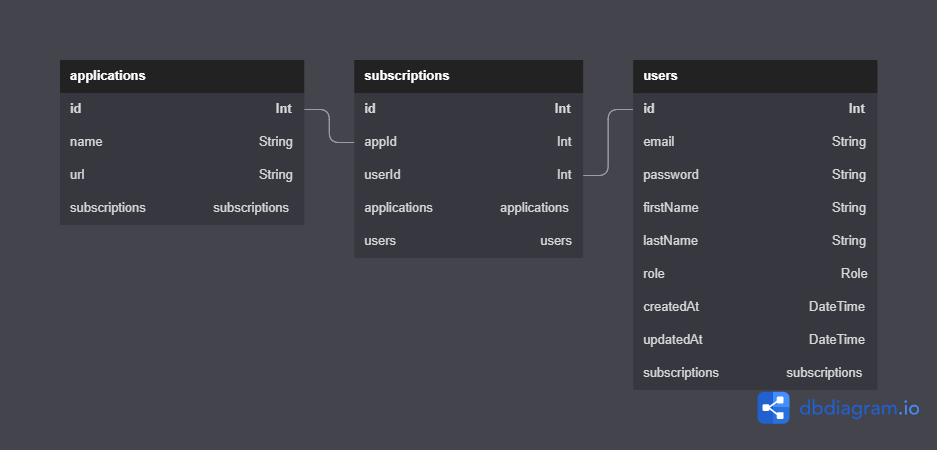
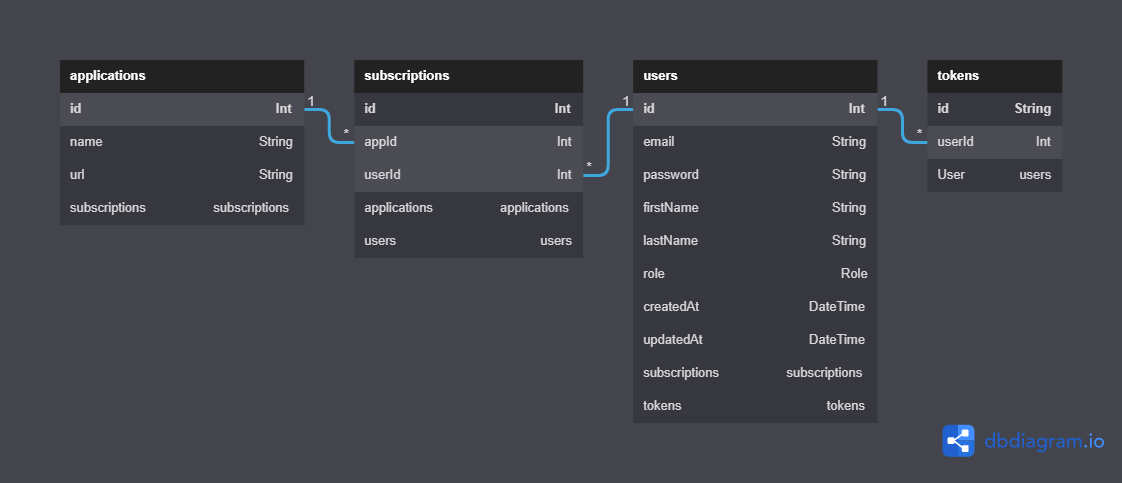
feat: logout route
adding array of allowed Tokens for each user

diff --git a/src/auth/auth.service.ts b/src/auth/auth.service.ts
@@ -8,16 +8,21 @@ import {
 import { compare, hash } from 'bcrypt';
 import { JwtService } from '@nestjs/jwt';
 import { UsersService } from 'src/users/users.service';
-import { Role } from '@prisma/client';
+import { Role, Token } from '@prisma/client';
 import { TokenWrapEntity } from './entities/token-wrap.entity';
 import { TokenContentEntity } from './entities/token-content.entity';
-import { UserNotAuthEntity } from 'src/users/entities/user-auth.entity';
+import {
+  UserNotAuthEntity,
+  UserOneAuthEntity,
+} from 'src/users/entities/user-auth.entity';
 import { ConfigService } from '@nestjs/config';
+import { PrismaService } from 'nestjs-prisma';
 
 // purposes : retrieving an user and verifying the password
 @Injectable()
 export class AuthService {
   constructor(
+    private readonly prisma: PrismaService,
     private readonly configService: ConfigService,
     private readonly userService: UsersService,
     private readonly jwtService: JwtService,
@@ -38,10 +43,13 @@ export class AuthService {
       throw new UnauthorizedException('Invalid password');
     }
 
+    const tokenUuid = (await this.saveToken(user.id))?.id;
+
     //we choose a property name of sub to hold our userId value to be consistent with JWT standards
     const accessTokenContent: TokenContentEntity = {
       sub: user.id,
       role: user.role,
+      tokenUuid,
     };
     const accessToken = this.jwtService.sign(accessTokenContent);
 
@@ -78,16 +86,30 @@ export class AuthService {
     return result;
   }
 
-  async validateUser(id: number, role: Role): Promise<UserNotAuthEntity> {
+  async validateUser(
+    id: number,
+    role: Role,
+    tokenUuid: string,
+  ): Promise<UserOneAuthEntity> {
     const user = await this.userService.getById(id);
     if (user.role !== role) {
       throw new UnauthorizedException(
         `User with id : ${user.id} used a token with an outdated role, it was : ${role} instead of ${user.role}.`,
       );
     }
+
+    const token: Token = await this.prisma.token.findUnique({
+      where: { id: tokenUuid },
+    });
+    if (token == null || token.userId !== id) {
+      throw new UnauthorizedException(
+        `User with id : ${user.id} used an outdated token .`,
+      );
+    }
+
     // eslint-disable-next-line @typescript-eslint/no-unused-vars
     const { password, ...result } = user;
-    return result;
+    return { ...result, tokenUuid };
   }
 
   checkPassword(pwd: string): boolean {
@@ -100,6 +122,56 @@ export class AuthService {
     }
     // TODO activate when in prod
     // return isStrong;
+    return true;
+  }
+
+  async logout(user: UserOneAuthEntity, tokenUuid?: string): Promise<boolean> {
+    if (
+      user.role !== Role.ADMIN ||
+      (user.role === Role.ADMIN && tokenUuid == undefined)
+    ) {
+      return this.banToken(user.tokenUuid);
+    }
+    if (user.role === Role.ADMIN && tokenUuid !== undefined) {
+      return this.banToken(tokenUuid);
+    }
+    return false;
+  }
+
+  /**
+   * Saving the token in a whitelist allowing its checking in the future even if its expiration is not overdue
+   * @param userId
+   * @returns
+   */
+  async saveToken(userId: number): Promise<Token> {
+    let token: Token;
+    try {
+      token = await this.prisma.token.create({ data: { userId: userId } });
+    } catch (error) {
+      this.logger.error(error);
+    }
+    return token;
+  }
+
+  /**
+   * Remove the token from the whitelist even if its expiration is not overdue
+   * @param tokenUuid
+   * @returns
+   */
+  async banToken(tokenUuid: string): Promise<boolean> {
+    let token: Token;
+    try {
+      token = await this.prisma.token.delete({
+        where: {
+          id: tokenUuid,
+        },
+      });
+    } catch (error) {
+      this.logger.error(error);
+    }
+    this.logger.log(
+      `The following token has just expired: ${token.id}, it matched with the following user id : ${token.userId}.`,
+    );
     return true;
   }
 }

diff --git a/src/auth/jwt.strategy.ts b/src/auth/jwt.strategy.ts
@@ -2,7 +2,7 @@ import { Injectable, UnauthorizedException } from '@nestjs/common';
 import { ConfigService } from '@nestjs/config';
 import { PassportStrategy } from '@nestjs/passport';
 import { ExtractJwt, Strategy } from 'passport-jwt';
-import { UserNotAuthEntity } from 'src/users/entities/user-auth.entity';
+import { UserOneAuthEntity } from 'src/users/entities/user-auth.entity';
 import { AuthService } from './auth.service';
 import { TokenContentEntity } from './entities/token-content.entity';
 
@@ -35,14 +35,15 @@ export class JwtStrategy extends PassportStrategy(Strategy, 'my-jwt') {
    * @param payload
    * @returns a full user if the validation succeeds, or a null if it fails
    */
-  async validate(payload: TokenContentEntity): Promise<UserNotAuthEntity> {
-    const user: UserNotAuthEntity = await this.authService.validateUser(
+  async validate(payload: TokenContentEntity): Promise<UserOneAuthEntity> {
+    const user = await this.authService.validateUser(
       payload.sub,
       payload.role,
+      payload.tokenUuid,
     );
     if (!user) {
       throw new UnauthorizedException();
     }
-    return user;
+    return { ...user, tokenUuid: payload.tokenUuid };
   }
 }

diff --git a/src/auth/auth.controller.ts b/src/auth/auth.controller.ts
@@ -1,9 +1,14 @@
 import { CreateAuthDto } from './dto/create-auth.dto';
-import { Body, Controller, Post } from '@nestjs/common';
+import { Body, Controller, Post, UseGuards } from '@nestjs/common';
 import { AuthService } from './auth.service';
-import { ApiTags } from '@nestjs/swagger';
+import { ApiBearerAuth, ApiTags } from '@nestjs/swagger';
 import { TokenWrapEntity } from './entities/token-wrap.entity';
-import { UserNotAuthEntity } from 'src/users/entities/user-auth.entity';
+import {
+  UserNotAuthEntity,
+  UserOneAuthEntity,
+} from 'src/users/entities/user-auth.entity';
+import { MyJwtAuthGuard } from 'src/auth/jwt.guard';
+import { AuthUser } from 'src/auth/decorators/auth-user.decorator';
 
 @Controller('auth')
 @ApiTags('auth')
@@ -13,6 +18,13 @@ export class AuthController {
   @Post('login')
   login(@Body() { email, password }: CreateAuthDto): Promise<TokenWrapEntity> {
     return this.authService.login(email, password);
+  }
+
+  @Post('logout')
+  @UseGuards(MyJwtAuthGuard)
+  @ApiBearerAuth()
+  async logout(@AuthUser() user: UserOneAuthEntity): Promise<boolean> {
+    return await this.authService.logout(user);
   }
 
   @Post('register')

diff --git a/src/auth/auth.module.ts b/src/auth/auth.module.ts
@@ -6,6 +6,7 @@ import { JwtModule } from '@nestjs/jwt';
 import { JwtStrategy } from './jwt.strategy';
 import { UsersService } from 'src/users/users.service';
 import { ConfigService } from '@nestjs/config';
+import { PrismaService } from 'nestjs-prisma';
 
 const jwtFactory = {
   useFactory: async (configService: ConfigService) => ({
@@ -20,6 +21,6 @@ const jwtFactory = {
 @Module({
   imports: [PassportModule, JwtModule.registerAsync(jwtFactory)],
   controllers: [AuthController],
-  providers: [Logger, AuthService, UsersService, JwtStrategy],
+  providers: [Logger, AuthService, UsersService, JwtStrategy, PrismaService],
 })
 export class AuthModule {}

diff --git a/src/users/entities/user-auth.entity.ts b/src/users/entities/user-auth.entity.ts
@@ -1,7 +1,7 @@
 import { Role, User } from '@prisma/client';
 import { TokenWrapEntity } from 'src/auth/entities/token-wrap.entity';
 
-type IUserAuth = Omit<User, 'password'>; // User without password
+type IUserAuth = Omit<User, 'password' | 'tokenList'>; // User without password
 
 export class UserAuthEntity implements IUserAuth, TokenWrapEntity {
   id: number;
@@ -22,4 +22,10 @@ export class UserNotAuthEntity implements IUserAuth {
   role: Role;
   createdAt: Date;
   updatedAt: Date;
+}
+
+export class UserOneAuthEntity {
+  id: number;
+  role: Role;
+  tokenUuid: string;
 }

diff --git a/src/auth/entities/token-content.entity.ts b/src/auth/entities/token-content.entity.ts
@@ -1,6 +1,7 @@
 import { Role } from '@prisma/client';
 
 export class TokenContentEntity {
+  tokenUuid: string;
   sub: number;
   role: Role;
 }

diff --git a/README.md b/README.md
@@ -54,19 +54,19 @@ While the application is running, you can see the documentation about the endpoi
 
 ![ms-users](README.assets/ms-users.png)
 
-You can see the associated commands at the _prisma\dmbl\schema.dbml_ file.
+You can see the associated commands at the _prisma\dbml\schema.dbml_ file.
 
 ### Seeding the data
 
 After filling the _.env_ file you can fill your database with some mock users and applications (defined in _mock/_ folder). Then to populate this data into your database, you will have to run the following commands : `npx prisma db seed`.
 
-### Editing the data itselves
+### Editing the data itself
 
 If you want to update the database, you can do it by running `npx prisma db studio`, and then access to the following web page : [Prisma Studio](http://localhost:5555/).
 
 ### Editing the data model
 
-If you update the database (by editing the _prisma/schema.prisma_ file) you have to update the associated compilated files by running `npx prisma generate`.
+If you update the database (by editing the _prisma/schema.prisma_ file) you have to update the associated compiled files by running `npx prisma generate`.
 
 ## Architecture of the code
 
@@ -120,7 +120,7 @@ docker compose up
   - [prisma-client-in-your-nestjs-services](https://docs.nestjs.com/recipes/prisma#use-prisma-client-in-your-nestjs-services)
   - CLI :
     - [Introducing CLI Resource Generators](https://trilon.io/blog/introducing-cli-generators-crud-api-in-1-minute#Introduction-to-CLI-Generators)
-  - pratical :
+  - practical :
     - [Building a REST API with NestJS and Prisma](https://www.notion.so/marcjulian/Building-a-REST-API-with-NestJS-and-Prisma-8296846a0fc54ac0b445ae9364805669)
     - [nestjs-prisma-workshop](https://github.com/marcjulian/nestjs-prisma-workshop)
 - Token :
@@ -131,9 +131,9 @@ docker compose up
   - [Prisma schema reference - Naming Convention](https://www.prisma.io/docs/reference/api-reference/prisma-schema-reference#naming-conventions)
   - [SQL Style Guide](https://www.sqlstyle.guide)
   - [Table Definition](https://www.dbml.org/docs/#table-definition)
-  - [dbdiagram Docs](https://dbdiagram.io/docs/)
+  - [dbDiagram Docs](https://dbdiagram.io/docs/)
 - Docker
   - [Containers vs. virtual machines | Atlassian](https://www.atlassian.com/en/continuous-delivery/microservices/containers)
-  - [Best practices for writing Dockerfiles](https://docs.docker.com/develop/develop-images/dockerfile_best-practices/)
+  - [Best practices for writing Docker files](https://docs.docker.com/develop/develop-images/dockerfile_best-practices/)
   - [Docker Nodejs Tutorial](https://docs.docker.com/language/nodejs/)
   - [Example](https://github.com/notiz-dev/nestjs-prisma/blob/main/schematics/nestjs-prisma/templates/docker/common/Dockerfile)
